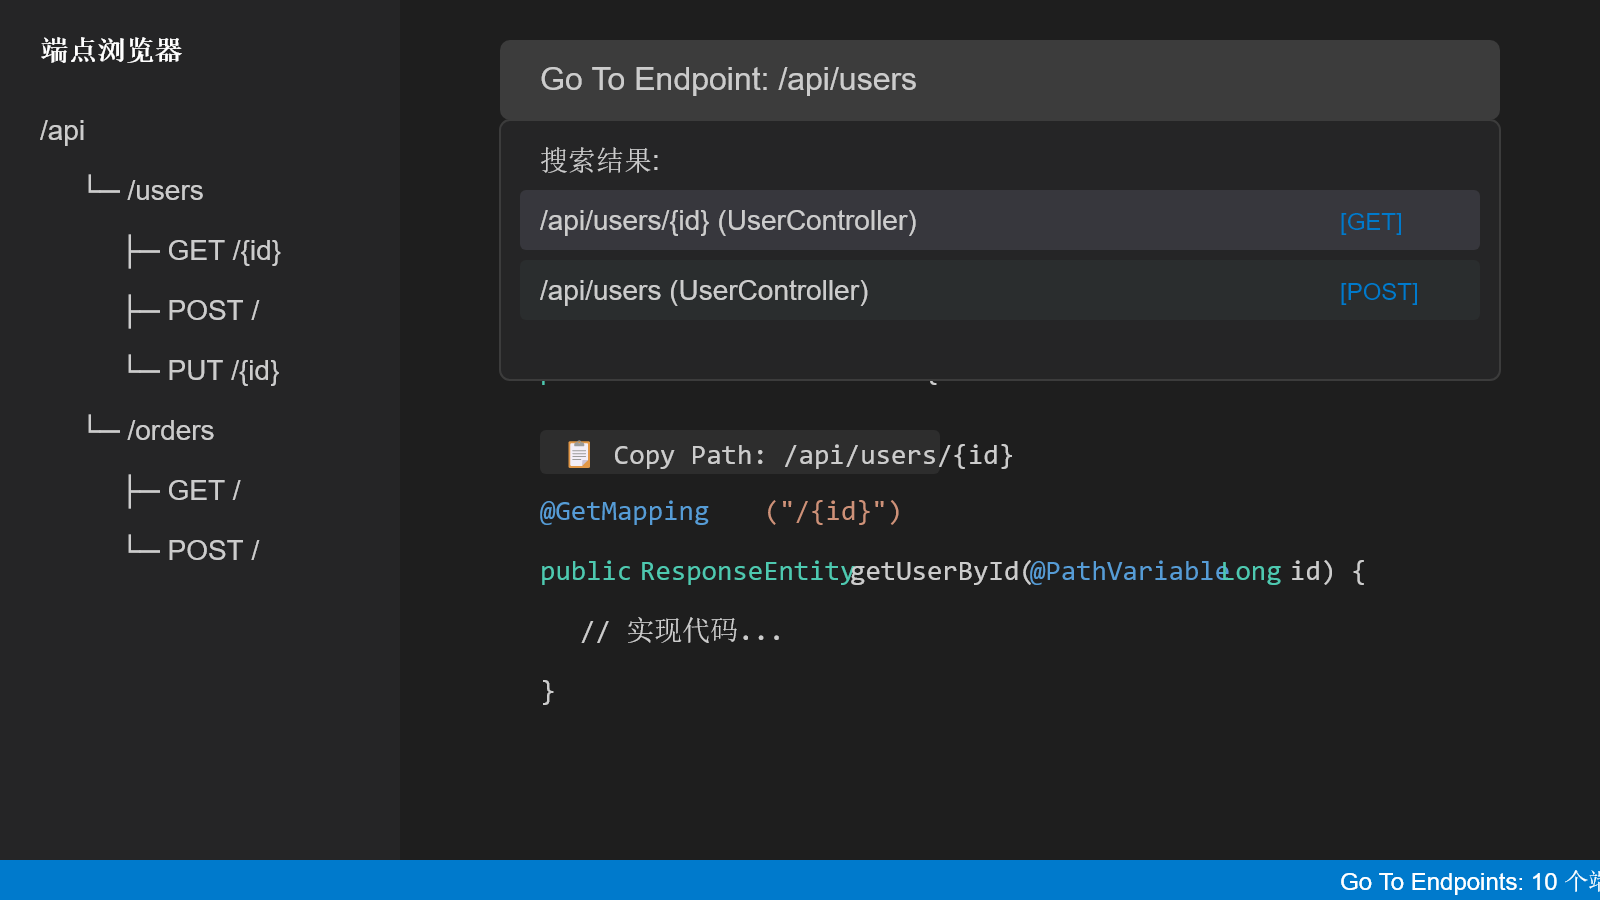
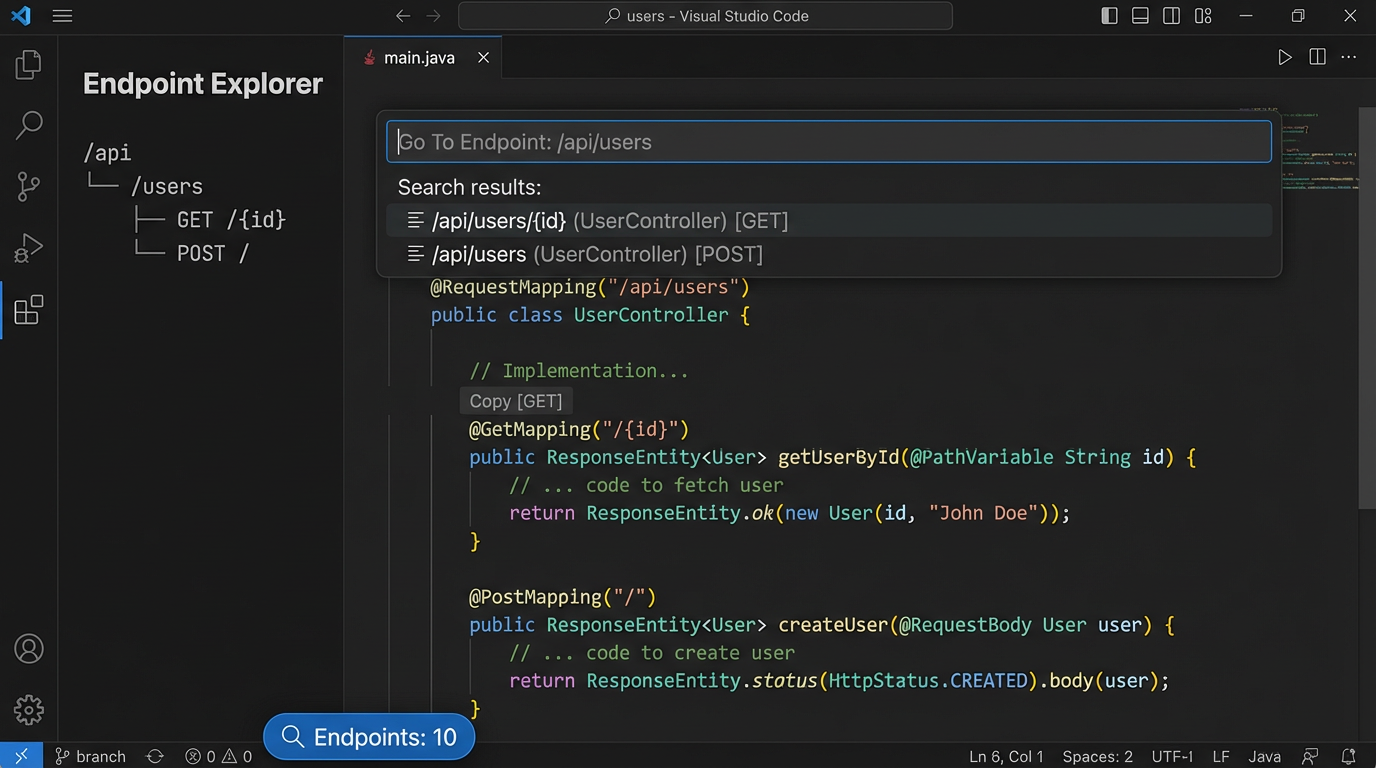
docs: English preview.png + preview-zh.png for Chinese README/store
Made-with: Cursor

diff --git a/README.md b/README.md
@@ -13,6 +13,8 @@ Streamline your Java development workflow by instantly locating and managing API
 
 ![Preview](https://raw.githubusercontent.com/superjinge/go-to-endpoints/main/resources/preview.png)
 
+*(Preview shows English UI: VS Code display language English and extension `displayLanguage` `en`. For a Chinese UI example see [README_CN.md](README_CN.md).)*
+
 ## Language / 语言
 
 - **Runtime UI** (notifications, progress, CodeLens, status bar, quick pick): set **`Go To Endpoints: Display Language`** (`gotoEndpoints.displayLanguage`) to `en` (default) or `zh-cn`.

diff --git a/VSCODE_STORE_DESCRIPTION_CN.md b/VSCODE_STORE_DESCRIPTION_CN.md
@@ -2,7 +2,7 @@
 
 **告别在无数控制器文件中翻找的痛苦！** Go To Endpoints是专为使用Spring框架的Java开发者打造的终极VS Code扩展。在大型项目中瞬间查找、导航和管理API端点。
 
-![扩展预览](https://raw.githubusercontent.com/superjinge/go-to-endpoints/main/resources/preview.png)
+![扩展预览](https://raw.githubusercontent.com/superjinge/go-to-endpoints/main/resources/preview-zh.png)
 
 ## 🚀 为什么你会爱上这个扩展
 

diff --git a/README_CN.md b/README_CN.md
@@ -9,7 +9,7 @@
 
 通过即时定位和管理大型Spring项目中的API端点，简化您的Java开发工作流程。告别在无数控制器文件中手动搜索的烦恼！
 
-![预览图](https://raw.githubusercontent.com/superjinge/go-to-endpoints/main/resources/preview.png)
+![预览图](https://raw.githubusercontent.com/superjinge/go-to-endpoints/main/resources/preview-zh.png)
 
 ## 语言设置
 
